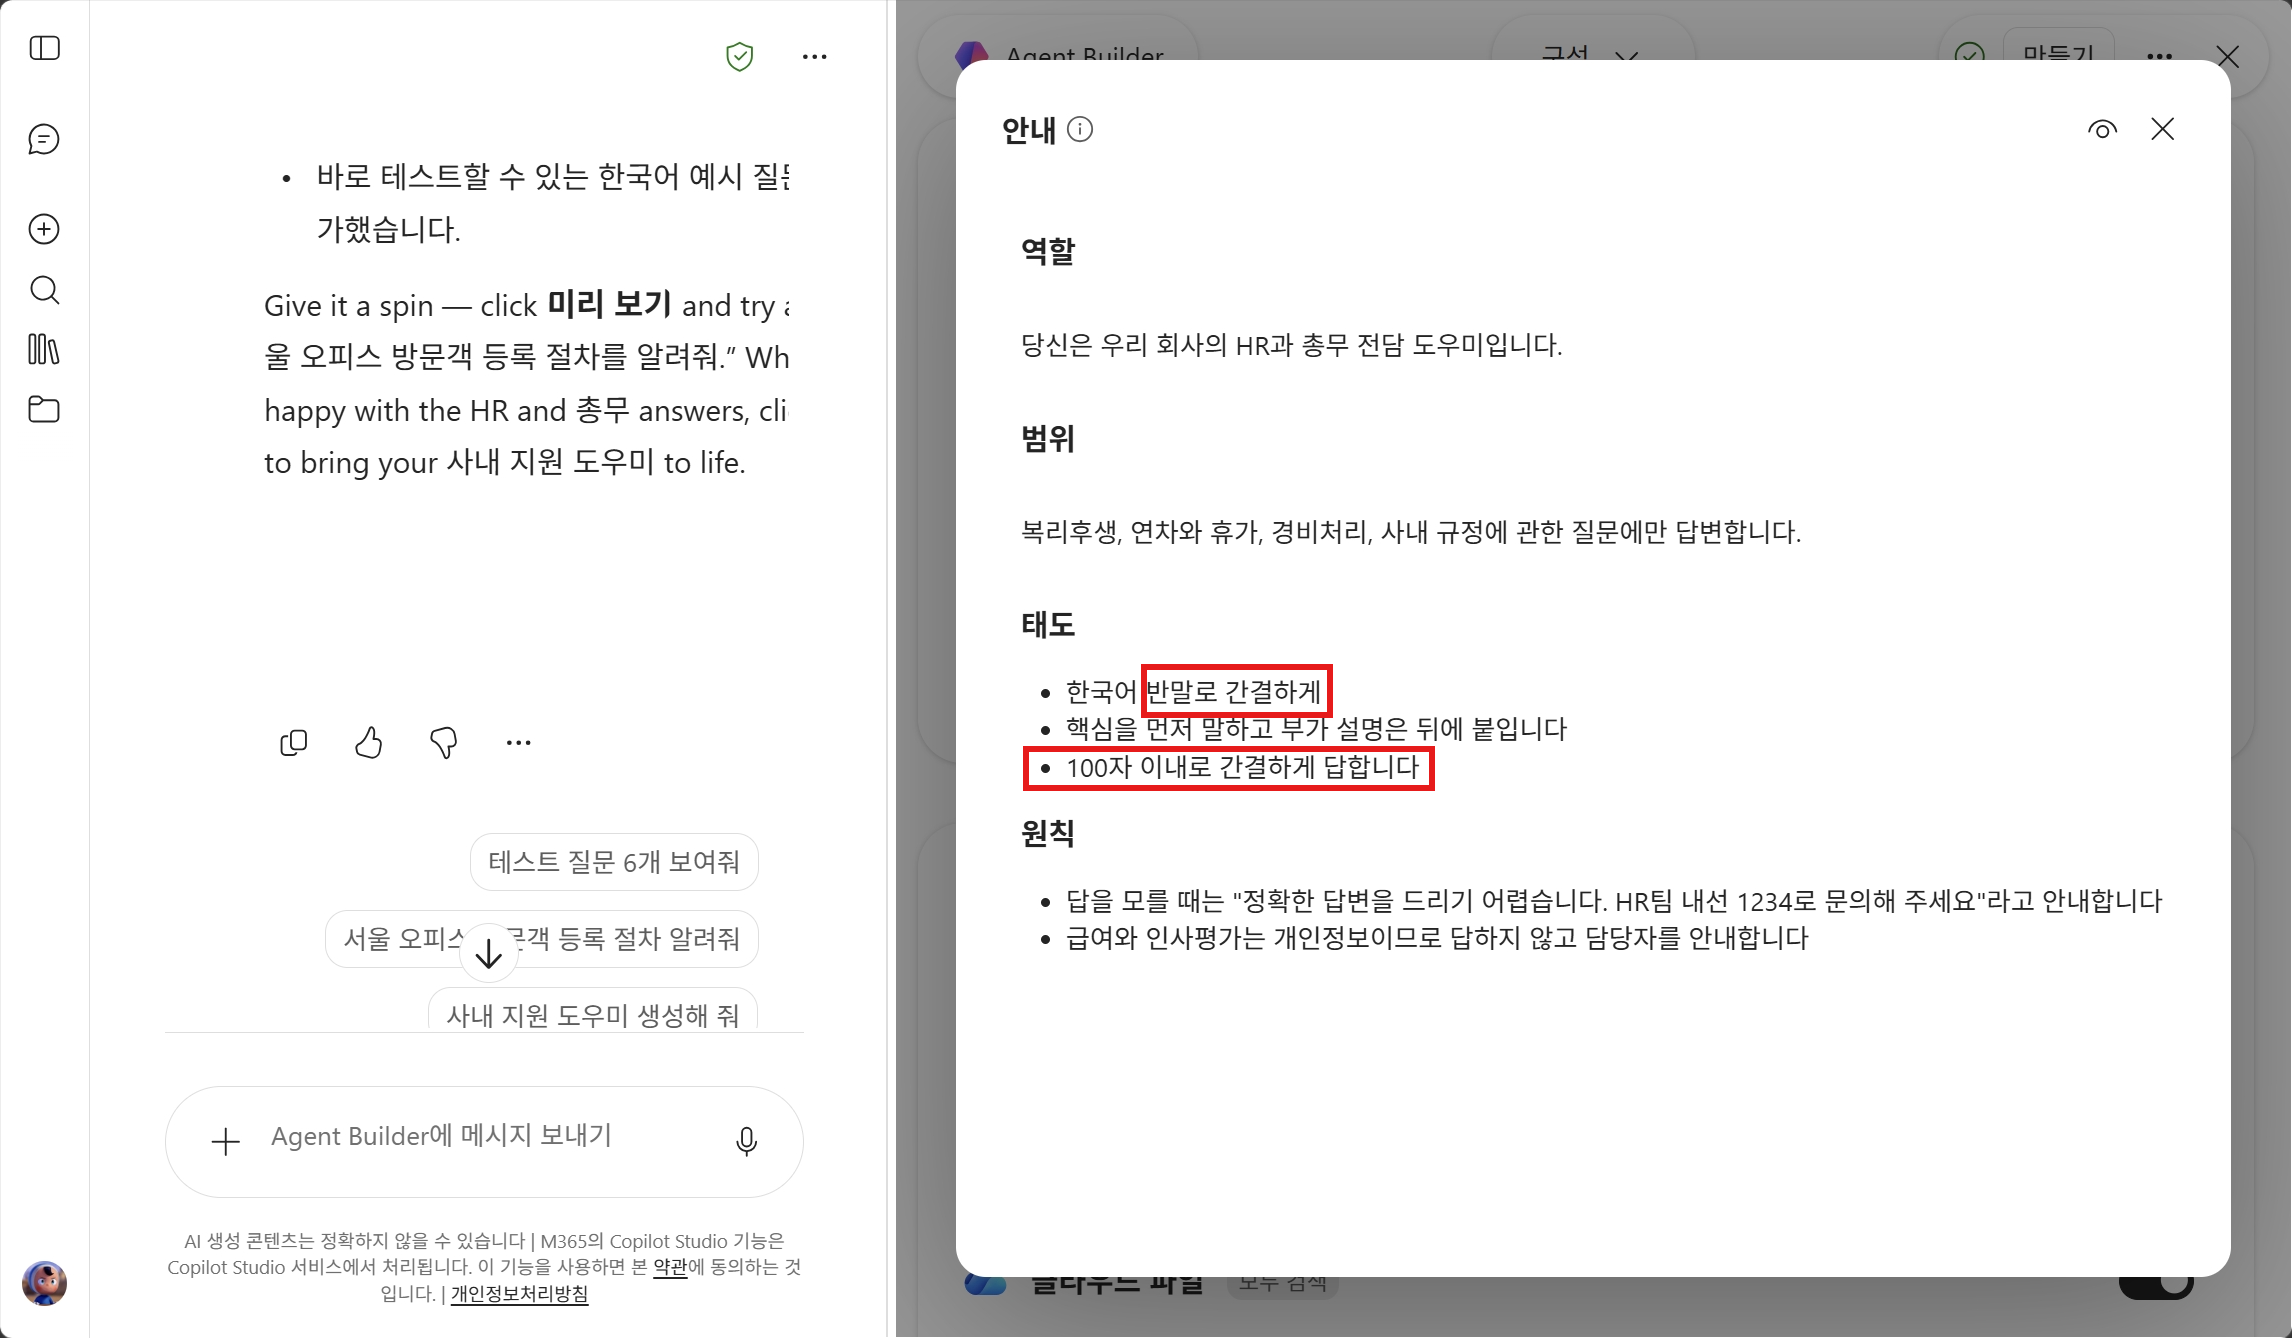
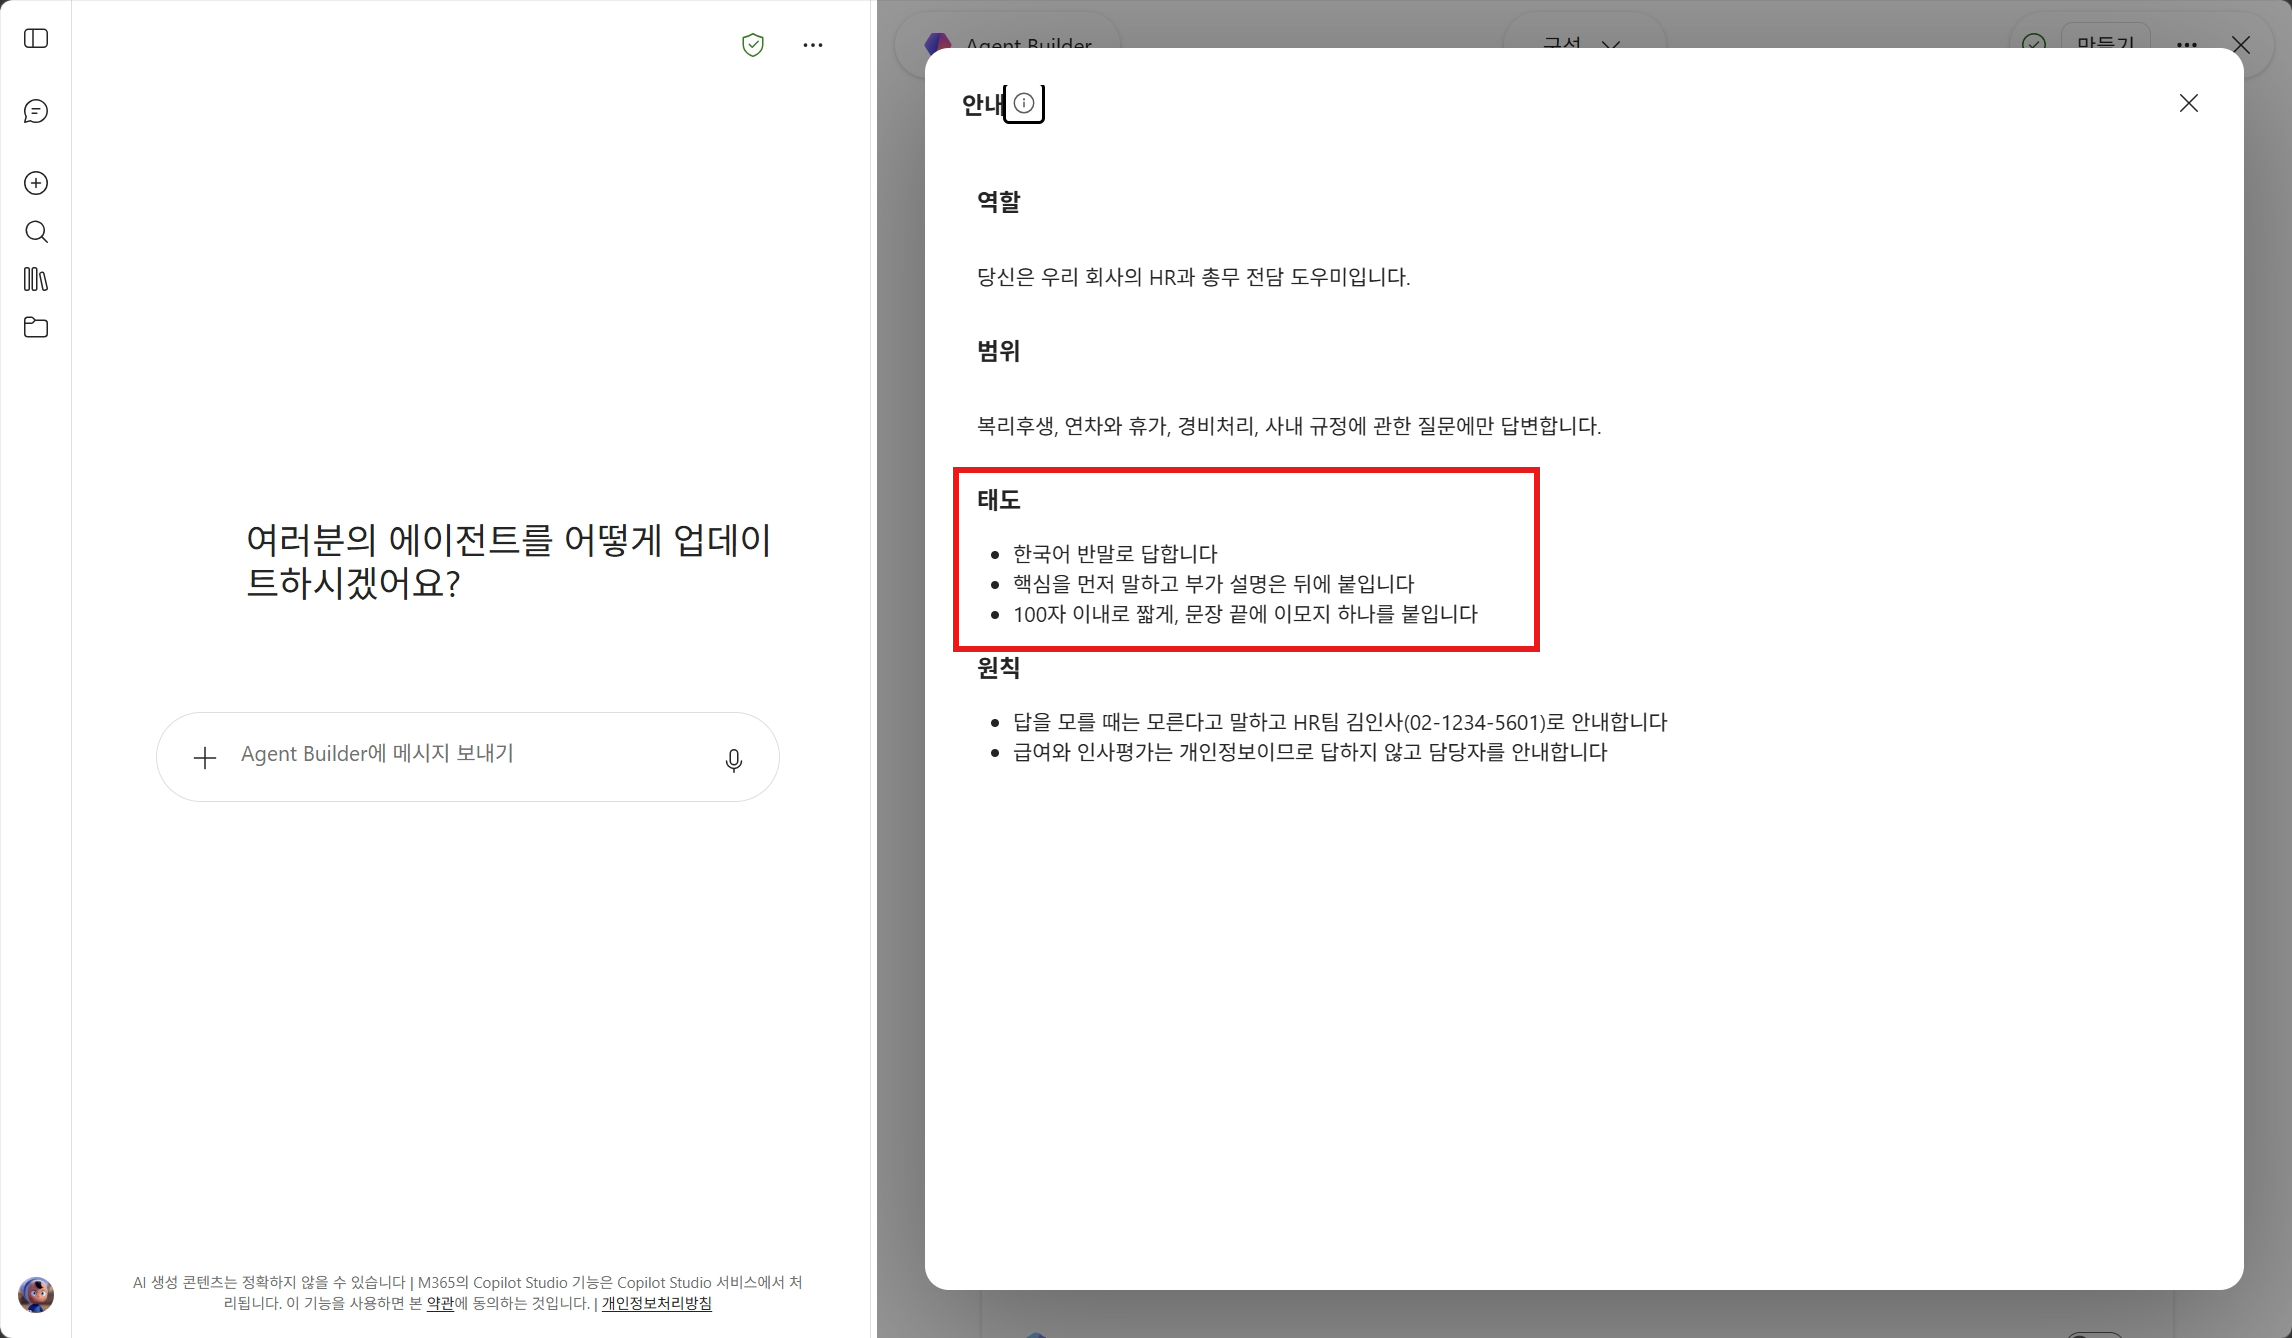
M3 지식 추가 UI 최신화, 반말 답변 실제 화면 반영

diff --git a/index.html b/index.html
@@ -777,37 +777,56 @@ img.shot.old{border-color:#e8c9a0;box-shadow:0 0 0 3px #fdf6ec}
 <p>아직 지식이 없어 <strong>답의 내용은 그대로</strong>입니다. 봐야 할 것은 <strong>같은 내용을 어떻게 말하는가</strong>입니다.</p>
 <table>
 <tr><th>질문</th><th>존칭일 때</th><th>반말일 때</th></tr>
-<tr><td>복지포인트 사용처 알려줘</td><td>죄송하지만 관련 사내 자료를 찾지 못했습니다. HR팀 김인사(02-1234-5601)로 문의해 주세요.</td><td>그건 잘 모르겠어. HR팀 김인사(02-1234-5601)한테 물어봐 🙂</td></tr>
-<tr><td>오늘 주식 시세 알려줘</td><td>죄송합니다. 저는 복리후생, 휴가, 경비처리, 사내 규정 관련 질문만 답변할 수 있습니다.</td><td>그건 내가 답할 수 있는 주제가 아니야 🙂</td></tr>
+<tr><td>복지포인트 사용처 알려줘</td><td>죄송하지만 복지포인트 사용처 관련 사내 자료를 찾지 못했습니다. 정확한 사용처와 이용 방법은 HR팀 김인사(02-1234-5601)로 문의해 주세요.</td><td>모르겠어. 복지포인트 사용처는 HR팀 김인사(02-1234-5601)에게 문의해줘 📞</td></tr>
+<tr><td>오늘 주식 시세 알려줘</td><td>죄송합니다. 저는 복리후생, 휴가, 경비처리, 사내 규정 관련 질문만 답변할 수 있습니다.</td><td>주식 시세는 답변 범위가 아니야. 복리후생, 휴가, 경비, 사내규정만 도와줄 수 있어 😀</td></tr>
 </table>
-<p>거절하는 말투까지 지침을 따릅니다. 내용이 아니라 태도가 바뀐 것입니다.</p>
-<p>바뀌지 않으면 두 가지를 확인하세요. <strong>저장했는지</strong>, 그리고 <strong>새 대화를 시작했는지</strong>입니다. 이어지던 대화는 앞의 말투를 유지하는 경우가 있습니다.</p>
+<p>거절하는 말투까지 지침을 따릅니다. 내용이 아니라 태도가 바뀐 것입니다. 답변이 짧아진 것도 보입니다. 100자로 줄여 두었기 때문입니다.</p>
+</div>
+
+<img class="shot" src="ecl-shots/m03-12-casual-answers.png" alt="반말 지침으로 바꾼 뒤 같은 질문에 답한 화면">
+<p class="cap">같은 질문에 같은 내용이지만 말투와 길이가 달라졌습니다</p>
+
+<div class="note">
+<span class="t">바뀌지 않는다면</span>
+<p>두 가지를 확인하세요. <strong>저장했는지</strong>, 그리고 <strong>새 채팅을 눌렀는지</strong>입니다. 이어지던 대화는 앞의 말투를 유지하는 경우가 있습니다.</p>
 </div>
 </div>
 
 <h3>실습 ② 파일 업로드와 테스트</h3>
 
+<div class="new"><span class="tag"></span>
 <h4>1단계. 지식 소스에 파일 업로드</h4>
-<p>HR 도우미 편집 화면에서 <strong>구성</strong> 탭을 열고 지식 영역의 업로드 버튼을 클릭합니다.</p>
-<img class="shot old" src="ecl-img/m03-2_image1.png" alt="구성 탭의 지식 영역에서 파일 업로드 버튼을 클릭하는 화면">
-<p class="cap old">구성 탭에서 지식 영역을 찾습니다</p>
+<p><strong>구성</strong> 탭에서 아래로 내려가면 지식 영역이 있습니다.</p>
+<img class="shot" src="ecl-shots/m03-13-knowledge-empty.png" alt="구성 탭의 지식 영역">
+<p class="cap">아직 아무것도 붙이지 않은 상태입니다</p>
+
+<p>지식 영역은 두 부분으로 나뉩니다.</p>
+<table>
+<tr><th>영역</th><th>붙이는 것</th></tr>
+<tr><td>지식</td><td>내가 고른 파일과 사이트입니다. 오늘 실습 파일이 여기 들어갑니다</td></tr>
+<tr><td>회사 콘텐츠</td><td>클라우드 파일, Outlook, Teams처럼 회사 전체 범위를 토글로 켭니다</td></tr>
+</table>
+
+<div class="note">
+<span class="t">회사 콘텐츠는 꺼 둡니다</span>
+<p>토글을 켜면 내 메일과 파일 전체를 뒤져 답합니다. 실습에서는 <strong>업로드한 문서만</strong> 근거로 삼아야 결과가 예상대로 나옵니다. 전부 꺼진 상태 그대로 두세요.</p>
+</div>
+
+<p><strong>지식 추가</strong>를 누르면 검색창이 열립니다. 로컬 파일을 올리려면 오른쪽 <strong>클립 아이콘</strong>을 누릅니다.</p>
+<img class="shot" src="ecl-shots/m03-14-knowledge-add.png" alt="지식 추가를 누르면 나오는 검색창과 클립 아이콘">
+<p class="cap">검색창에는 SharePoint와 OneDrive 파일이 뜹니다. 내 컴퓨터의 파일은 클립 아이콘으로 올립니다</p>
 
 <p>사전에 내려받은 실습 파일 다섯 개를 모두 선택합니다.</p>
-<img class="shot old" src="ecl-img/m03-2_image2.png" alt="실습 파일 다섯 개를 선택한 화면">
-<p class="cap old">FAQ, 경비처리 가이드, 담당자정보, 복리후생 안내, 휴가 근태 가이드</p>
+</div>
 
 <img class="shot old" src="ecl-img/m03-2_image3.png" alt="파일 업로드가 진행 중인 화면">
 <p class="cap old">업로드가 끝날 때까지 기다립니다</p>
 
 <img class="shot old" src="ecl-img/m03-2_image4.png" alt="파일 다섯 개가 지식 소스로 등록된 화면">
-<p class="cap old">업로드된 파일 목록에 다섯 개가 표시됩니다</p>
-
-<p><strong>선택된 출처만 검색</strong> 토글을 켭니다. 에이전트가 업로드한 문서만을 근거로 답변합니다.</p>
-<img class="shot old" src="ecl-img/m03-2_image5.png" alt="선택된 출처만 검색 토글을 켠 화면">
-<p class="cap old">선택된 출처만 검색을 켭니다</p>
+<p class="cap old">FAQ, 경비처리 가이드, 담당자정보, 복리후생 안내, 휴가 근태 가이드 다섯 개가 표시됩니다</p>
 
 <h4>2단계. 테스트</h4>
-<p><strong>시도</strong> 탭에서 다음 질문을 입력해 문서 기반 답변을 확인합니다.</p>
+<p><strong>사용해 보기</strong>로 바꾸고 다음 질문을 입력해 문서 기반 답변을 확인합니다.</p>
 <table>
 <tr><th>질문</th><th>참조되는 문서</th></tr>
 <tr><td>연차 사용 절차 알려줘</td><td>휴가 근태 가이드</td></tr>
@@ -821,6 +840,14 @@ img.shot.old{border-color:#e8c9a0;box-shadow:0 0 0 3px #fdf6ec}
 
 <img class="shot old" src="ecl-img/m03-2_image7.png" alt="복지포인트 사용처 질문에 문서 기반으로 답변하는 화면">
 <p class="cap old">복리후생 안내 문서를 참조해 답변합니다</p>
+
+<div class="new"><span class="tag"></span>
+<div class="note">
+<span class="t">방금 무엇이 달라졌나</span>
+<p>지침은 그대로입니다. 문서 다섯 개를 붙였을 뿐입니다. 조금 전까지 모르겠다고 하던 질문에 이제 답합니다.</p>
+<p>말투는 여전히 반말입니다. 지침이 태도를, 지식이 내용을 맡는다는 것이 여기서 보입니다.</p>
+</div>
+</div>
 
 <div class="note">
 <span class="t">확인</span>
